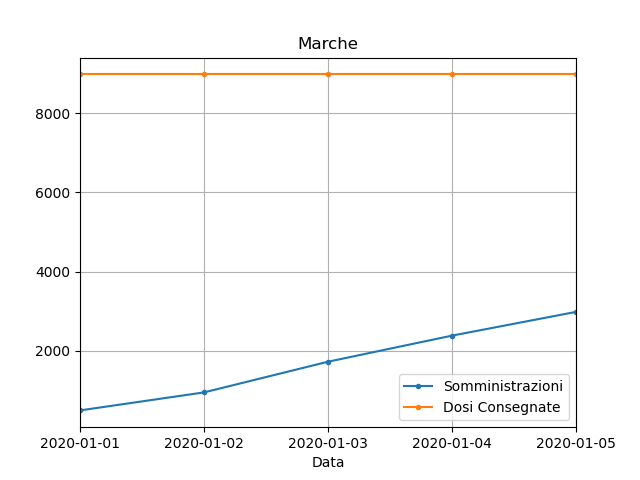
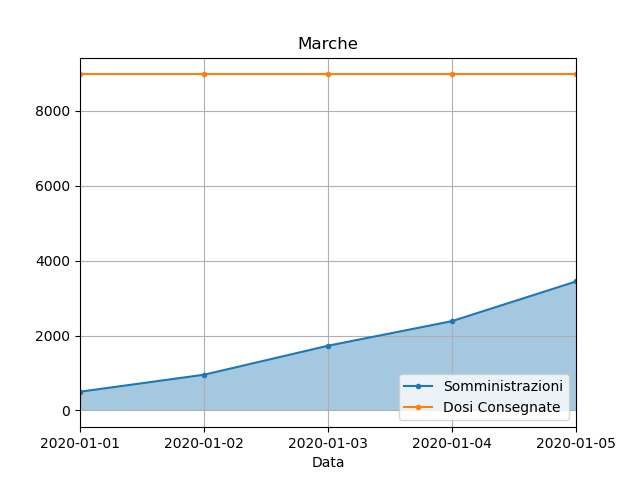
improve quality of plot

diff --git a/plot_regions.py b/plot_regions.py
@@ -19,7 +19,8 @@ def plotRegions(path, dest_path):
         df.plot(x='Data', y=['Somministrazioni', 'Dosi Consegnate'], kind='line', title=filename, grid=True,
                 xticks=np.arange(len(df['Data'])),
                 legend=True, style='.-')
-
+        plt.fill_between(np.arange(len(df['Data'])),df['Somministrazioni'],alpha=0.4)
         plt.savefig(fname=dest_path + filename + '.png')
+        #plt.show()
 
         print(x)
